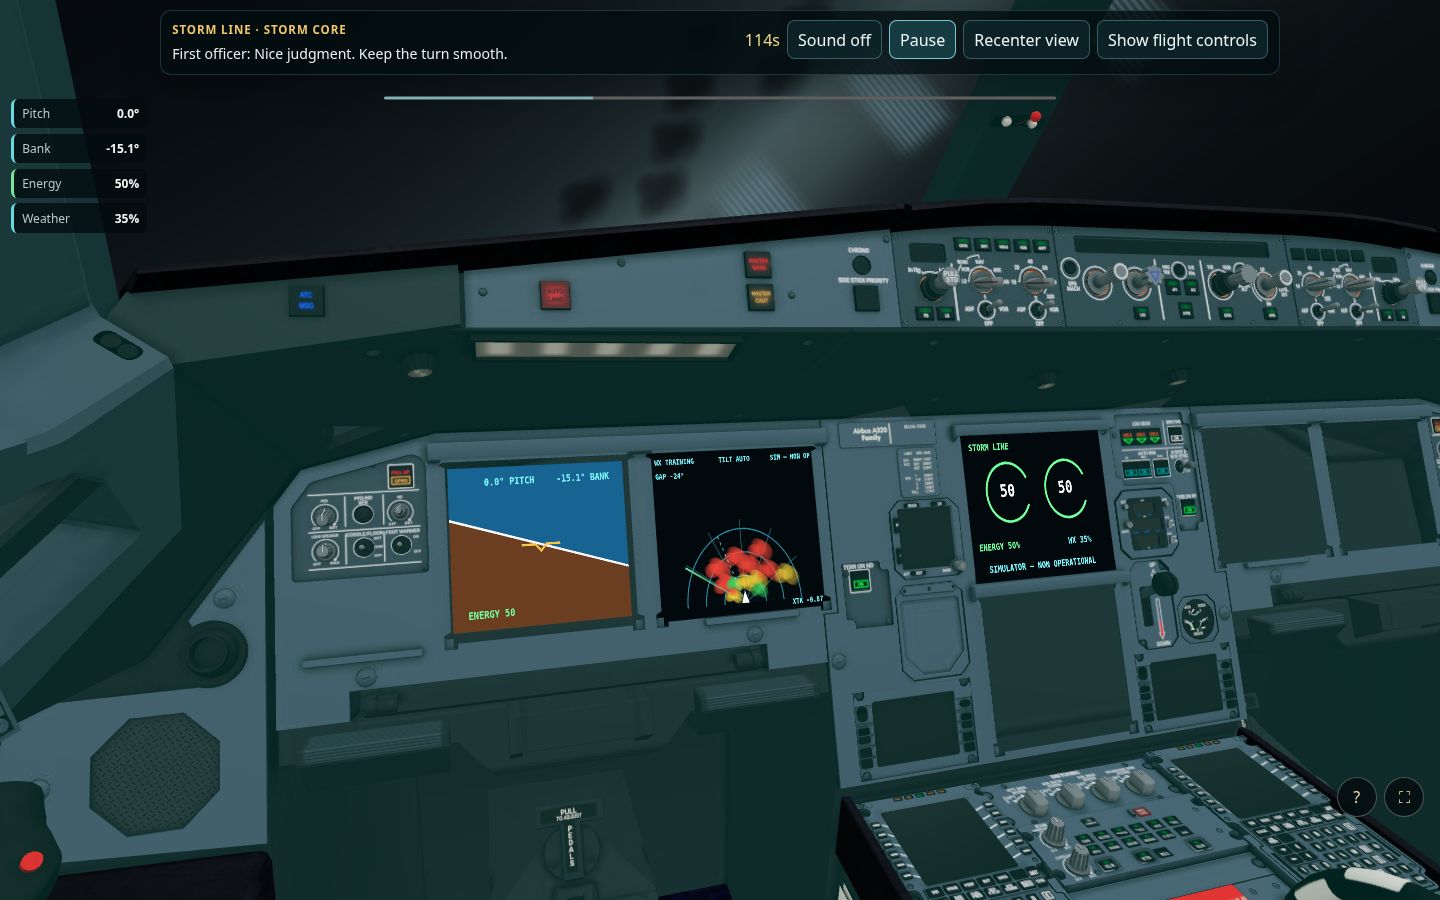
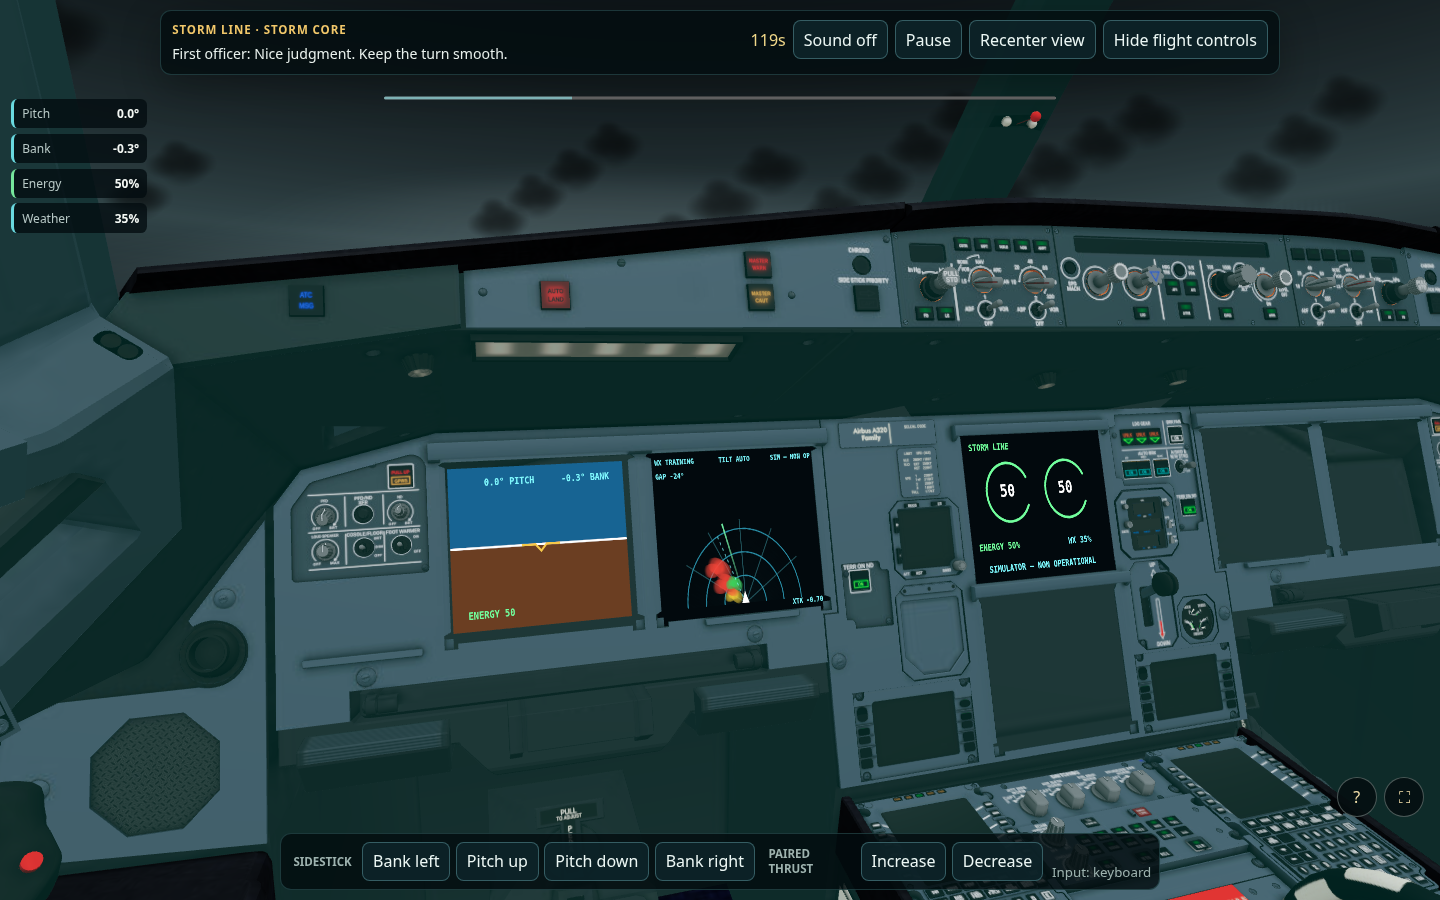
fix: reset Airbus radar on retry

diff --git a/src/scenes/PrototypeScene.tsx b/src/scenes/PrototypeScene.tsx
@@ -23,6 +23,7 @@ import {
   advanceAirbusWeatherRadar,
   createAirbusWeatherRadarFrame,
   projectAirbusWeatherCellToRadar,
+  shouldResetAirbusWeatherRadar,
   type AirbusWeatherRadarFrame,
 } from './airbusWeatherRadar'
 import { AIRBUS_MODEL_URL, clearCockpitModel, DC9_MODEL_URL, loadCockpitModel, LOCKER_MODEL_URL } from './cockpitModelLoader'
@@ -1275,6 +1276,7 @@ function AirbusSimulatorAnimator({
   } | null>(null)
   const lastDrawRef = useRef(-1)
   const radarFrameRef = useRef<AirbusWeatherRadarFrame | null>(null)
+  const radarResetCountRef = useRef(0)
 
   useEffect(() => {
     canvasRef.current = gl.domElement
@@ -1344,9 +1346,14 @@ function AirbusSimulatorAnimator({
     if (!currentFrame || !weatherSnapshot) return
     if (clock.elapsedTime - lastDrawRef.current < 1 / 12) return
     lastDrawRef.current = clock.elapsedTime
-    const previousRadar = radarFrameRef.current?.signature === weatherSnapshot.signature
-      ? radarFrameRef.current
-      : createAirbusWeatherRadarFrame(weatherSnapshot, weatherSnapshot.elapsedSeconds)
+    const retainedRadar = radarFrameRef.current
+    const resetRadar = retainedRadar
+      ? shouldResetAirbusWeatherRadar(retainedRadar, weatherSnapshot)
+      : false
+    if (resetRadar) radarResetCountRef.current += 1
+    const previousRadar = retainedRadar && !resetRadar
+        ? retainedRadar
+        : createAirbusWeatherRadarFrame(weatherSnapshot, weatherSnapshot.elapsedSeconds)
     const radar = advanceAirbusWeatherRadar(
       previousRadar,
       weatherSnapshot,
@@ -1367,6 +1374,7 @@ function AirbusSimulatorAnimator({
     canvasRef.current.dataset.airbusRadarGapBearing = radar.gapBearingDegrees.toFixed(2)
     canvasRef.current.dataset.airbusRadarSweepAngle = radar.sweepAngleDegrees.toFixed(2)
     canvasRef.current.dataset.airbusRadarReturnCount = String(radar.returns.length)
+    canvasRef.current.dataset.airbusRadarResetCount = String(radarResetCountRef.current)
     canvasRef.current.dataset.airbusRadarOldestReturnAge = Math.max(
       0,
       ...radar.returns.map((item) => item.ageSeconds),

diff --git a/e2e/airbus-storm-line.spec.ts b/e2e/airbus-storm-line.spec.ts
@@ -203,7 +203,7 @@ test('Storm Line reads a standard gamepad and safely retries an attitude departu
 })
 
 test('production Airbus GLB renders Storm Line displays, controls, and responsive approval views', async ({ page }) => {
-  test.setTimeout(180_000)
+  test.setTimeout(480_000)
   const expectedBytes = statSync('public/models/airbus-captain.glb').size
   const consoleErrors: string[] = []
   page.on('console', (message) => {
@@ -311,6 +311,26 @@ test('production Airbus GLB renders Storm Line displays, controls, and responsiv
 
   await page.getByRole('button', { name: 'Recenter view' }).click()
   await expect(canvas).toHaveAttribute('data-airbus-look-state', '0.0000,0.0000,0.0000,0.0000')
+
+  const resetsBeforeRetry = Number(await canvas.getAttribute('data-airbus-radar-reset-count'))
+  await page.getByRole('button', { name: 'Show flight controls' }).click()
+  const pitchUp = page.getByRole('button', { name: 'Hold Pitch up' })
+  await pitchUp.focus()
+  await page.keyboard.down('Space')
+  await page.keyboard.down('ArrowLeft')
+  await expect(
+    page.getByRole('alertdialog', { name: /storm core needs another pass/i }),
+  ).toBeVisible({ timeout: 150_000 })
+  await page.keyboard.up('Space')
+  await page.keyboard.up('ArrowLeft')
+  await page.getByRole('button', { name: 'Retry this checkpoint' }).click()
+  await expect.poll(async () => Number(
+    await canvas.getAttribute('data-airbus-radar-reset-count'),
+  )).toBeGreaterThan(resetsBeforeRetry)
+  const retrySweep = Number(await canvas.getAttribute('data-airbus-radar-sweep-angle'))
+  await expect.poll(async () => Number(
+    await canvas.getAttribute('data-airbus-radar-sweep-angle'),
+  )).not.toBe(retrySweep)
 
   const evidenceDirectory = process.env.STORM_LINE_EVIDENCE_DIR ?? '/tmp'
   await page.setViewportSize({ width: 1440, height: 900 })

diff --git a/src/scenes/airbusWeatherRadar.test.ts b/src/scenes/airbusWeatherRadar.test.ts
@@ -5,6 +5,7 @@ import {
   createAirbusWeatherRadarFrame,
   projectAirbusWeatherCellToRadar,
   radarColorForPrecipitation,
+  shouldResetAirbusWeatherRadar,
 } from './airbusWeatherRadar'
 
 const weather = deriveAirbusWeatherField({
@@ -88,5 +89,24 @@ describe('Airbus live weather radar', () => {
 
     expect(frame.signature).toBe(weather.signature)
     expect(frame.gapBearingDegrees).toBe(weather.gapBearingDegrees)
+  })
+
+  it('resets on a field transition or scenario-time rewind but not a pause', () => {
+    const frame = advanceAirbusWeatherRadar(
+      createAirbusWeatherRadarFrame(weather, 80),
+      weather,
+      90,
+      false,
+    )
+
+    expect(shouldResetAirbusWeatherRadar(frame, weather)).toBe(false)
+    expect(shouldResetAirbusWeatherRadar(frame, {
+      ...weather,
+      elapsedSeconds: 89,
+    })).toBe(true)
+    expect(shouldResetAirbusWeatherRadar(frame, {
+      ...weather,
+      signature: 'wx-other-field',
+    })).toBe(true)
   })
 })

diff --git a/src/scenes/airbusWeatherRadar.ts b/src/scenes/airbusWeatherRadar.ts
@@ -75,6 +75,14 @@ export function createAirbusWeatherRadarFrame(
   }
 }
 
+export function shouldResetAirbusWeatherRadar(
+  previous: AirbusWeatherRadarFrame,
+  snapshot: AirbusWeatherFieldSnapshot,
+): boolean {
+  return previous.signature !== snapshot.signature
+    || snapshot.elapsedSeconds < previous.sampledAtSeconds
+}
+
 function advanceSweep(
   startAngle: number,
   startDirection: -1 | 1,

diff --git a/plans/0026-airbus-shared-weather-radar.md b/plans/0026-airbus-shared-weather-radar.md
@@ -344,6 +344,8 @@ Repeat: run the narrowest failing test, diagnose the root cause, make one cohere
 - Completion-review repair suite: 29 focused weather/layout/radar/Storm tests passed; focused lint and typecheck passed.
 - Reviewed production-GLB Engine-Out proof passed with the layout-derived visible-gap assertion.
 - Reviewed production-GLB Storm proof passed with layout-derived visible-gap agreement and live radar pause/freeze/resume behavior. A combined sequential run was terminated by the local runner after Engine-Out passed, so Storm was rerun alone and passed in 3.0 minutes.
+- Same-checkpoint retry review repair: radar reset now triggers when scenario elapsed time moves backward even if the stable field signature is unchanged. The focused suite passes 30 tests, including field-transition, pause, and rewind reset cases.
+- Final production-GLB Storm proof passed in 5.6 minutes with a real attitude-envelope failure, same-checkpoint retry, radar reset-count increment, and resumed sweep, in addition to the existing weather, layout-gap, pause, bank, look, recenter, screen, and console assertions.
 - Tier 1 screenshots:
   - `preview-renders/airbus-weather-radar/airbus-storm-entry-weather-radar-1440.png`
   - `preview-renders/airbus-weather-radar/airbus-storm-core-weather-radar-1440.png`
